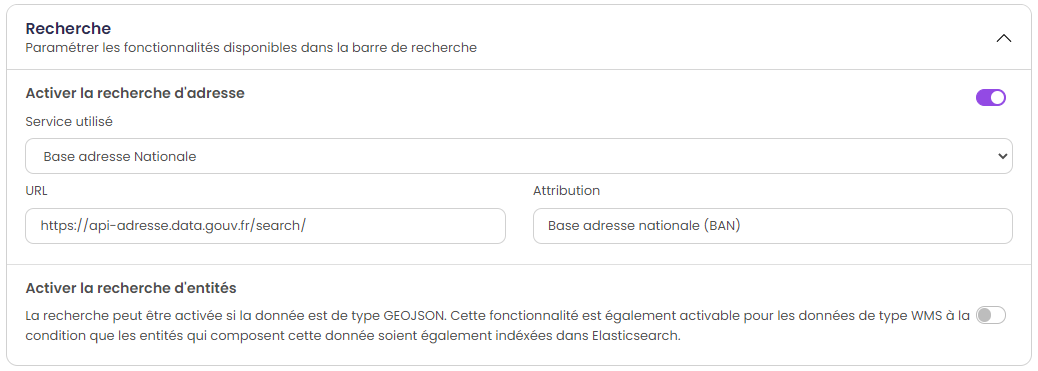
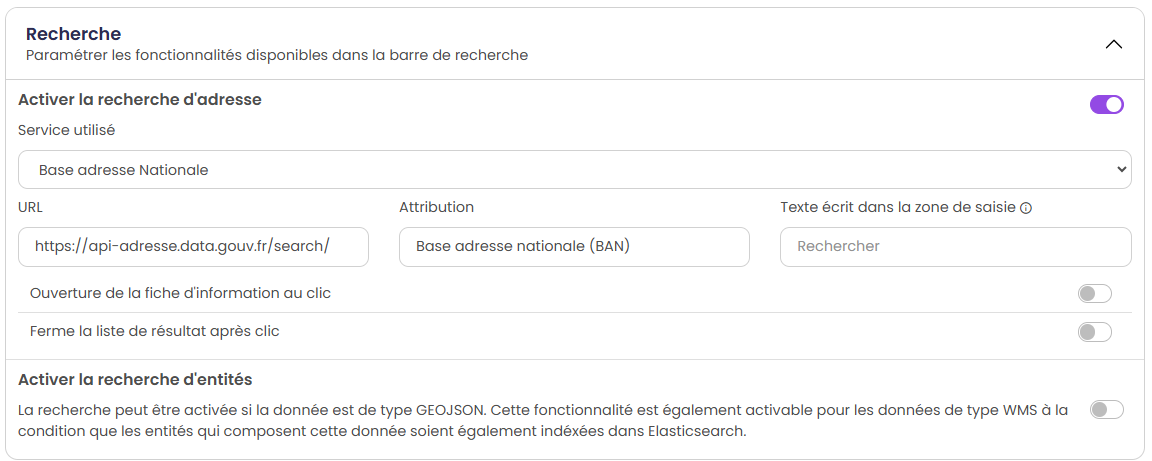
maj doc

diff --git a/docs/doc_user/param_data.rst b/docs/doc_user/param_data.rst
@@ -21,23 +21,32 @@ Le mot "données" correspond à un ou des jeu(x) de données que vous souhaitez 
 
 Deux options sont offertes à l'utilisateur pour définir ses thématiques :
 
-  1. Créer : pour créer votre thématique et y associer vos jeux de données "métier"
+  1. Ajouter : pour créer votre thématique et y associer vos jeux de données "métier"
   2. Importer : pour réutiliser une thématique déjà créée au sein de la communauté mviewer (ex. la thématique des découpages territoriaux qui contient les limites de communes, EPCI et départements)
 
-Option - Créer une thématique
-~~~~~~~~~~~~~~~~~~~~~~~~~~~~~~
+Option - Ajouter une thématique
+~~~~~~~~~~~~~~~~~~~~~~~~~~~~~~~~~~~~~~~~
 
-En cliquant sur le bouton créer, une fenêtre de paramétrage de la thématique sélectionnée s'ouvre.
+En cliquant sur le bouton ajouter une thématique, le paramétrage de la thématique s'active.
 
 .. image:: ../_images/user/mviewerstudio_2_thematiques_creer.png
               :alt: Création thématique
               :align: center
 
+- |icone| : sélectionner l'icône illustrant la thématique. La recherche s'effectue en anglais.
+
 - ``Nom`` : renseigner le nom de la thématique (ex. Ports).
 
 - ``Déroulée par défaut`` : option permettant d'afficher le contenu de la thématique par défaut.
 
-- ``Icône`` : sélectionner l'icône illustrant la thématique. Pour rechercher un mot clé en anglais, utiliser la recherche du navigateur (taper CRTL+F).
+- ``Ajouter un groupe`` : ajout d'un groupe au sein de la thématique.
+
+- ``Ajouter une donnée`` : ajout d'une donnée au sein de la thématique. Par défaut, la donnée sera sans aucun groupe (si des groupes on été créés).
+
+- |deplacement| : déplacer la thématique via drag and drop.
+
+- |suppression| : supprime la thématique.
+
 
 Option - Importer une thématique externe
 ~~~~~~~~~~~~~~~~~~~~~~~~~~~~~~~~~~~~~~~~
@@ -68,9 +77,9 @@ Une nouvelle fenêtre s'ouvre avec l'option suivante :
 Ajouter une donnée
 -------------------------------------------
 
-Depuis la fenêtre ``Paramètres de la thématique sélectionnée`` il est possible d'ajouter des données à cette thématique via le bouton |ajout_donnees|.
+Le bouton |ajout_donnees| permet d'ajouter des données dans l'application.
 
-L'ajout d'un nouveau jeu de données peut se faire avec une recherche dans un catalogue et en saisissant les paramètres de base.
+L'ajout d'un nouveau jeu de données peut se faire avec une recherche dans un catalogue ou en saisissant les paramètres de base.
 
 .. |ajout_donnees| image:: ../_images/user/mviewerstudio_2_thematiques_bouton_ajouter_donnees.png
   :alt: Ajouter une donnée 
@@ -111,6 +120,23 @@ Si le jeu de donnée n'est pas disponible dans un catalogue, il est possible de 
 * ``URL`` : paramètre de type URL (URL du service web)
 * ``Lien vers le fichier de style`` : pour les couches de type vector-tms uniquement, il indique l’URL vers le fichier de style au format JSON.
 * ``Nom du style`` : pour les couches de type vector-tms uniquement, titre à utiliser pour la liste des styles associés
+
+Ajouter un groupe
+-------------------------------------------
+
+Le bouton |ajout_groupe| permet d'ajouter des données dans l'application. Il n'y a pas de limites du nombre de groupes par thématique.
+
+.. image:: ../_images/user/mviewerstudio_2_ajout_groupe.png
+              :alt: Groupe ajoutée
+              :align: center
+
+
+Il vous suffira de taper le nom du groupe. Le déplacement de données dans le groupe se fait via drag and drop.
+
+.. |ajout_groupe| image:: ../_images/user/mviewerstudio_2_thematiques_bouton_ajouter_groupe.png
+  :alt: Ajouter un groupe 
+  :width: 100 pt
+
 
 Paramétrer ses données
 -------------------------------------------
@@ -276,7 +302,7 @@ Il est maintenant nécessaire de peupler le bloc de gauche avec des composants e
 * ``Chiffre clé`` : composant permettant d’afficher un chiffre clé à mettre en avant et nécessitant une valeur de type « nombre » en entrée.
 * ``Liste`` : composant permettant d’afficher une liste et nécessitant un champ composé d’une liste comme indiqué dans la `documentation mviewer <https://mviewerdoc.readthedocs.io/fr/latest/doc_tech/config_tpl.html#iterer-sur-un-champ-de-type-json>`_.
 * ``Texte`` : composant permettant d’afficher un texte et nécessitant une valeur de type texte en entrée.
-* ``Libre`` : composant permettant de saisir librement le contenu du template comme dans un fichier Mustache (.mst).
+* ``Saisie libre`` : composant permettant de saisir librement le contenu du template comme dans un fichier Mustache (.mst).
 
 Sélectionnez un composant et cliquez sur "Enregistrer" pour l’ajouter. Il n’est possible d’ajouter qu’un composant à la fois, veuillez réitérer l’opération pour ajouter des composants supplémentaires. 
 
@@ -369,6 +395,14 @@ Une fois les composants ajoutés, il est nécessaire de configurer chaque compos
      - x
      - x
      -
+   * - Saisie libre
+     -
+     -
+     - x
+     -
+     -
+     -
+     - x
 
 
 **Valeur**
@@ -488,3 +522,17 @@ Pour supprimer définitivement la fiche d’information personnalisée, cliquez 
 **Modifier la position**
 
 Si vous modifiez la position de la fiche d’information après avoir configuré un template, il est préférable de vérifier l’affichage des composants et d’ajuster la disposition si nécessaire. 
+
+
+.. |icone| image:: ../_images/user/mviewerstudio_2_icone.png
+              :alt: Icône 
+	      :width: 20 pt
+
+
+.. |deplacement| image:: ../_images/user/mviewerstudio_2_deplacement.png
+              :alt: Déplacer 
+	      :width: 20 pt
+
+.. |suppression| image:: ../_images/user/mviewerstudio_2_suppression.png
+              :alt: Supprimer 
+	      :width: 20 pt

diff --git a/docs/doc_user/param_appli.rst b/docs/doc_user/param_appli.rst
@@ -219,6 +219,12 @@ Activer la recherche pour offrir à vos utilisateurs la possibilité de se local
               :align: center
 
 * ``A l'adresse`` : localisation à l'adresse via le service de la Base adresse nationale ou tout autre service.
+ - ``URL`` : URL du service d'adresse (par défaut Base adresse nationale).
+ - ``Attribution`` : source du service.
+ - ``Texte écrit dans la zone de saisie`` :guilabel:`mode avancé` : texte quii sera écrit dans la zone de saisie de l'adresse (en haut à droite) dans mviewer.
+ - ``Ouverture de la fiche d'information au clic`` :guilabel:`mode avancé` : ouverture de la fiche d'information d'une donnée dès lors que l'on clic sur l'adresse choisie.
+ - ``Ferme la liste de résultat après clic`` :guilabel:`mode avancé` :  une fois le clic sur l'adresse choisie fait, la barre de résultat d'adresse s'efface.
+
 * ``Activer la recherche d'entités`` :guilabel:`mode avancé`: la recherche peut être activée si la donnée est de type GEOJSON. Cette fonctionnalité est également activable pour les données de type WMS à la condition que les entités qui composent cette donnée soient également indéxées dans Elasticsearch. 
 
 Page d'accueil (:guilabel:`mode avancé`)

diff --git a/docs/doc_user/accueil.rst b/docs/doc_user/accueil.rst
@@ -29,7 +29,7 @@ Ouvrir une application existante
 
 Deux choix sont offerts à l'utilisateur :
 
-* Ouvrir un projet existant disponible sur un espace de stockage distant (serveur)
+* **Ouvrir un projet existant disponible sur un espace de stockage distant (serveur)**
 
 .. image:: ../_images/user/mviewerstudio_0_accueil_projet_existant_serveur.png
               :alt: Projet existant serveur
@@ -41,7 +41,7 @@ Il est également possible de filtrer les applications selon un mot clé, une da
 
 Cliquez sur "Modifier" pour accéder à l'éditeur d'application.
 
-* Ouvrir un projet existant disponible sur un espace de stockage local (fichier XML sur votre ordinateur)
+* **Ouvrir un projet existant disponible sur un espace de stockage local (fichier XML sur votre ordinateur)**
 
 .. image:: ../_images/user/mviewerstudio_0_accueil_projet_existant_local.png
               :alt: Projet existant local
